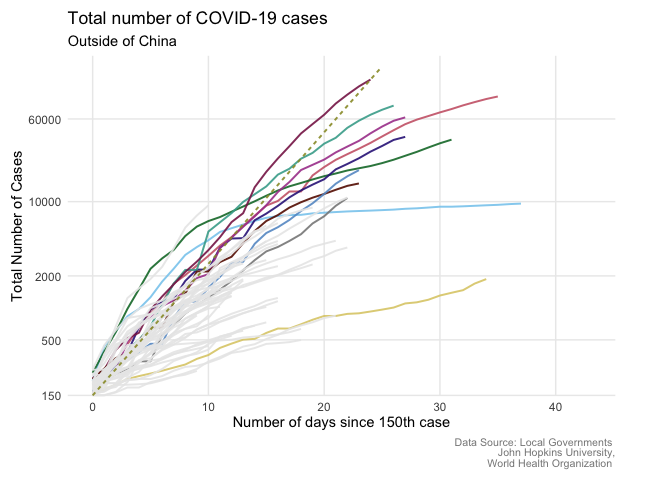
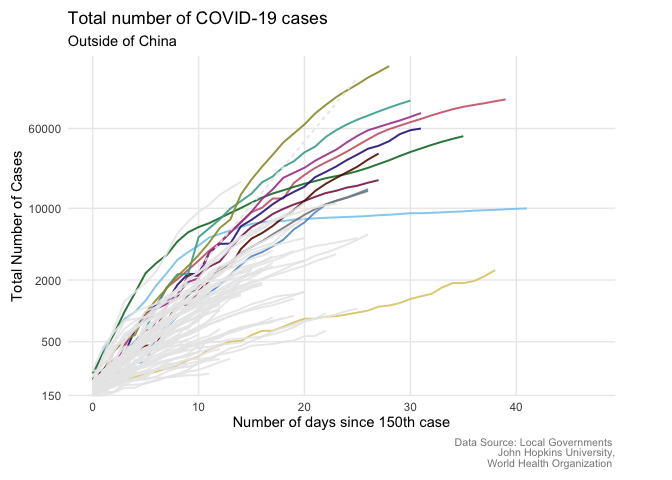
updated 3/04

diff --git a/README.md b/README.md
@@ -70,7 +70,8 @@ names(cases_raw)
     ## [57] "3/14/20"        "3/15/20"        "3/16/20"        "3/17/20"       
     ## [61] "3/18/20"        "3/19/20"        "3/20/20"        "3/21/20"       
     ## [65] "3/22/20"        "3/23/20"        "3/24/20"        "3/25/20"       
-    ## [69] "3/26/20"        "3/27/20"        "3/28/20"        "3/29/20"
+    ## [69] "3/26/20"        "3/27/20"        "3/28/20"        "3/29/20"       
+    ## [73] "3/30/20"        "3/31/20"        "4/1/20"         "4/2/20"
 
 In order to recreate the chart, inspired by John Burn-Murdoch work, we
 need to tidy the data first, and then do some basic manipulation on it.
